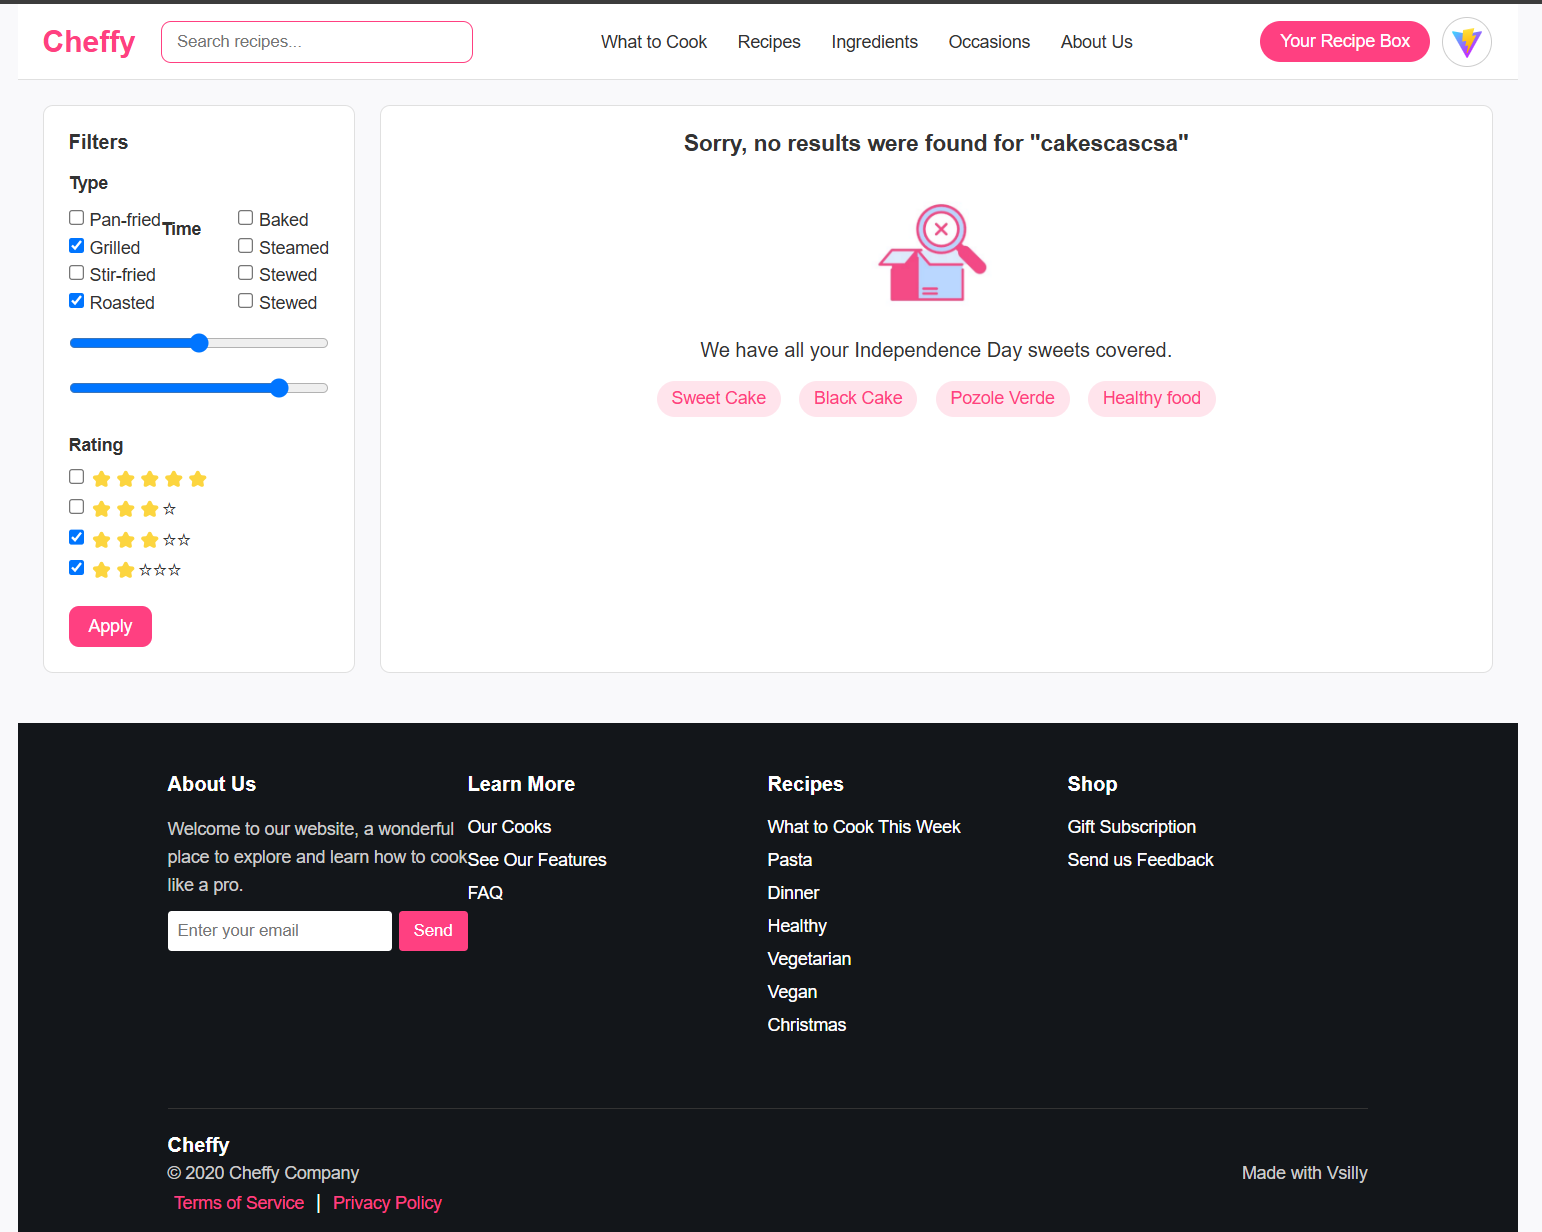
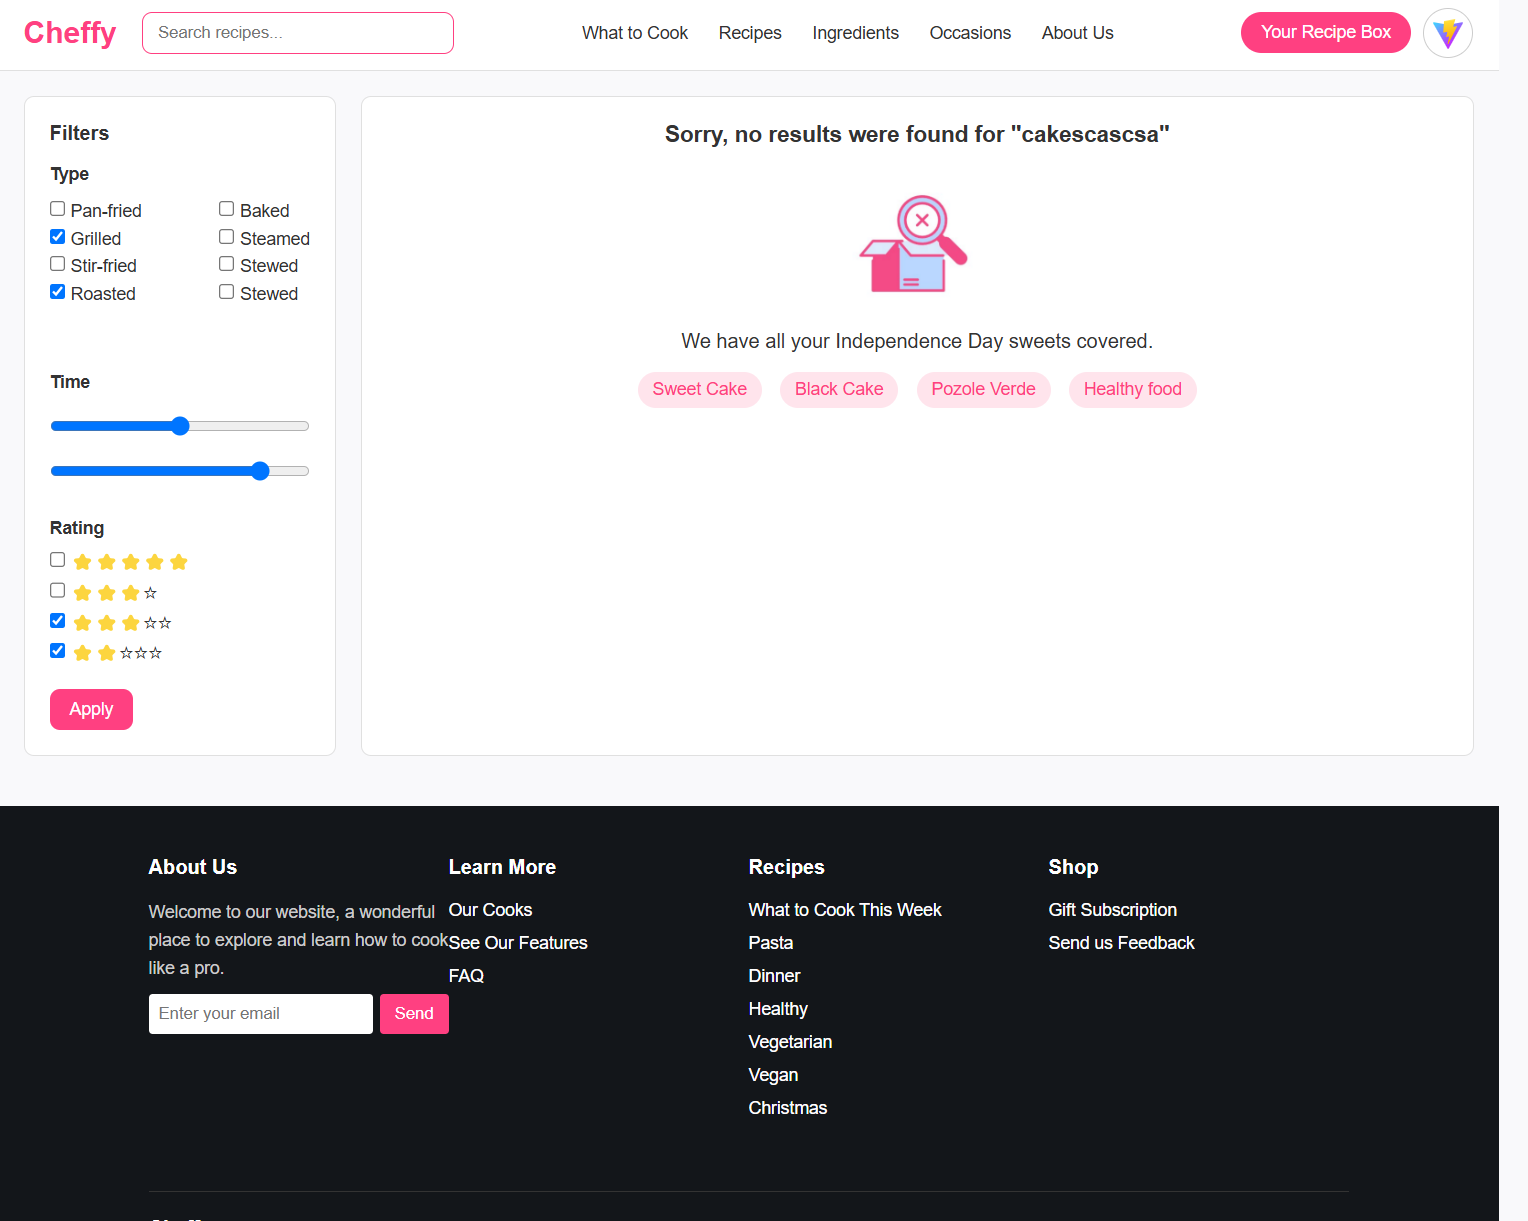
chinh bai 1

diff --git a/my-app-react/index.html b/my-app-react/index.html
@@ -327,7 +327,7 @@
           
         </div>
 
-        <div class="filter-group">
+        <div class="filter-group" style="margin-top: 150px;">
           <h4>Time</h4>
           <input type="range" min="0" max="60" value="30"/>
           <input type="range" min="0" max="60" value="50"/>
